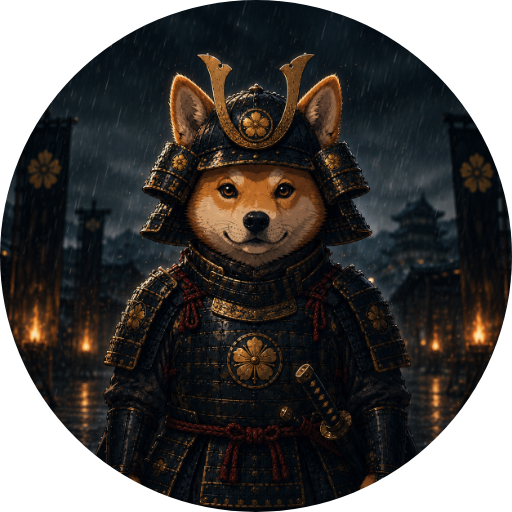
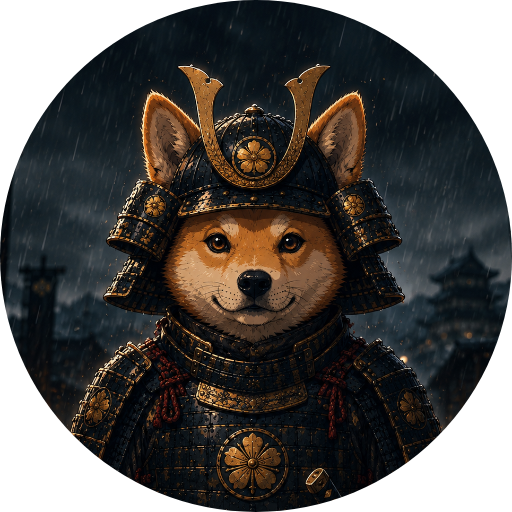
refactor: Implementación de react-hot-toast para monstrar mensajes toast

diff --git a/app/(dashboard)/configuracion/settings-view.tsx b/app/(dashboard)/configuracion/settings-view.tsx
@@ -38,6 +38,7 @@ import {
   type LucideIcon,
 } from "lucide-react";
 import { AnimatePresence, motion, useReducedMotion } from "motion/react";
+import { toast } from "react-hot-toast";
 import {
   type ChangeEvent,
   type ComponentType,
@@ -181,12 +182,6 @@ const initialProfileActionState: DashboardProfileActionState = {
 const profilePhotoMaxSize = 5 * 1024 * 1024;
 const profilePhotoAcceptedTypes = new Set(["image/png", "image/jpeg"]);
 const profilePhotoOutputSize = 512;
-
-type ProfilePhotoToastState = {
-  id: string;
-  message: string;
-  variant: "success" | "error";
-};
 
 function loadImage(src: string) {
   return new Promise<HTMLImageElement>((resolve, reject) => {
@@ -969,9 +964,7 @@ function ConfiguracionProfilePanel({
   const firstNameIconRef = useRef<AnimatedIconHandle>(null);
   const lastNameIconRef = useRef<AnimatedIconHandle>(null);
   const shouldReduceMotion = useReducedMotion();
-  const [hiddenSavedMessageId, setHiddenSavedMessageId] = useState<
-    string | null
-  >(null);
+  const hiddenSavedMessageIdRef = useRef<string | null>(null);
   const [firstNameValue, setFirstNameValue] = useState(user.firstName);
   const [lastNameValue, setLastNameValue] = useState(user.lastName);
   const [profileImagePath, setProfileImagePath] = useState(
@@ -985,8 +978,6 @@ function ConfiguracionProfilePanel({
   const [isPhotoDeleting, setIsPhotoDeleting] = useState(false);
   const [isProfilePhotoDragActive, setIsProfilePhotoDragActive] =
     useState(false);
-  const [profilePhotoToast, setProfilePhotoToast] =
-    useState<ProfilePhotoToastState | null>(null);
   const firstNameError = state.errors?.firstName?.[0];
   const lastNameError = state.errors?.lastName?.[0];
   const savedFirstName =
@@ -1010,22 +1001,14 @@ function ConfiguracionProfilePanel({
     if (
       !savedMessage ||
       !savedMessageId ||
-      savedMessageId === hiddenSavedMessageId
+      savedMessageId === hiddenSavedMessageIdRef.current
     ) {
       return;
     }
 
-    const timeout = window.setTimeout(() => {
-      setProfilePhotoToast({
-        id: savedMessageId,
-        message: savedMessage,
-        variant: "success",
-      });
-      setHiddenSavedMessageId(savedMessageId);
-    }, 0);
-
-    return () => window.clearTimeout(timeout);
-  }, [hiddenSavedMessageId, savedMessage, savedMessageId]);
+    toast.success(savedMessage);
+    hiddenSavedMessageIdRef.current = savedMessageId;
+  }, [savedMessage, savedMessageId]);
 
   useEffect(() => {
     if (!selectedImageSrc) {
@@ -1035,30 +1018,19 @@ function ConfiguracionProfilePanel({
     return () => URL.revokeObjectURL(selectedImageSrc);
   }, [selectedImageSrc]);
 
-  useEffect(() => {
-    if (!profilePhotoToast) {
-      return;
-    }
-
-    const timeout = window.setTimeout(() => {
-      setProfilePhotoToast((current) =>
-        current?.id === profilePhotoToast.id ? null : current,
-      );
-    }, 3000);
-
-    return () => window.clearTimeout(timeout);
-  }, [profilePhotoToast]);
-
   const showProfilePhotoToast = (
     messageKey: string,
     defaultValue: string,
-    variant: ProfilePhotoToastState["variant"],
+    variant: "success" | "error",
   ) => {
-    setProfilePhotoToast({
-      id: crypto.randomUUID(),
-      message: t(messageKey, { defaultValue }),
-      variant,
-    });
+    const message = t(messageKey, { defaultValue });
+
+    if (variant === "success") {
+      toast.success(message);
+      return;
+    }
+
+    toast.error(message);
   };
 
   const openProfilePhotoSelector = () => {
@@ -1742,44 +1714,6 @@ function ConfiguracionProfilePanel({
                   </button>
                 </div>
               </motion.div>
-            </motion.div>
-          ) : null}
-        </AnimatePresence>
-
-        <AnimatePresence>
-          {profilePhotoToast ? (
-            <motion.div
-              key={profilePhotoToast.id}
-              role="status"
-              aria-live="polite"
-              className="pointer-events-none fixed inset-x-0 bottom-5 z-[60] flex justify-center px-4 sm:bottom-6"
-              initial={
-                shouldReduceMotion
-                  ? { opacity: 1, y: 0 }
-                  : { opacity: 0, y: 12 }
-              }
-              animate={{ opacity: 1, y: 0 }}
-              exit={
-                shouldReduceMotion
-                  ? { opacity: 0, y: 0 }
-                  : { opacity: 0, y: 12 }
-              }
-              transition={
-                shouldReduceMotion
-                  ? { duration: 0 }
-                  : { duration: 0.22, ease: "easeOut" }
-              }
-            >
-              <span
-                className={cn(
-                  "w-full max-w-[420px] rounded-xl border px-4 py-3 text-center text-sm font-semibold shadow-[0_18px_40px_rgb(13_13_18/0.16)]",
-                  profilePhotoToast.variant === "success"
-                    ? "border-chart-1/35 bg-chart-1/10 text-chart-1"
-                    : "border-destructive/35 bg-destructive/10 text-destructive",
-                )}
-              >
-                {profilePhotoToast.message}
-              </span>
             </motion.div>
           ) : null}
         </AnimatePresence>

diff --git a/components/ui/app-toaster.tsx b/components/ui/app-toaster.tsx
@@ -1,0 +1,67 @@
+"use client";
+
+import type { CSSProperties } from "react";
+import { Toaster } from "react-hot-toast";
+
+const sharedToastStyle: CSSProperties = {
+  width: "fit-content",
+  maxWidth: "min(420px, calc(100vw - 32px))",
+  borderRadius: "0.75rem",
+  border: "1px solid var(--outline-variant)",
+  background: "var(--popover)",
+  color: "var(--popover-foreground)",
+  boxShadow: "0 18px 40px rgb(13 13 18 / 0.16)",
+  fontFamily: "var(--font-inter), Arial, Helvetica, sans-serif",
+  fontSize: "0.875rem",
+  fontWeight: 700,
+  lineHeight: 1.4,
+  padding: "0.75rem 1rem",
+  textAlign: "center",
+  wordBreak: "break-word",
+};
+
+export function AppToaster() {
+  return (
+    <Toaster
+      position="bottom-center"
+      gutter={8}
+      containerStyle={{
+        bottom: "calc(env(safe-area-inset-bottom, 0px) + 1rem)",
+        left: "1rem",
+        right: "1rem",
+      }}
+      toastOptions={{
+        duration: 3000,
+        style: sharedToastStyle,
+        success: {
+          iconTheme: {
+            primary: "var(--chart-1)",
+            secondary: "var(--background)",
+          },
+          style: {
+            ...sharedToastStyle,
+            borderColor:
+              "color-mix(in srgb, var(--chart-1) 35%, var(--outline-variant))",
+            background:
+              "color-mix(in srgb, var(--chart-1) 10%, var(--popover))",
+            color: "var(--chart-1)",
+          },
+        },
+        error: {
+          iconTheme: {
+            primary: "var(--destructive)",
+            secondary: "var(--background)",
+          },
+          style: {
+            ...sharedToastStyle,
+            borderColor:
+              "color-mix(in srgb, var(--destructive) 35%, var(--outline-variant))",
+            background:
+              "color-mix(in srgb, var(--destructive) 10%, var(--popover))",
+            color: "var(--destructive)",
+          },
+        },
+      }}
+    />
+  );
+}

diff --git a/app/layout.tsx b/app/layout.tsx
@@ -5,6 +5,7 @@ import "./globals.css";
 import { cn } from "@/lib/utils";
 import { I18nProvider } from "./i18n-provider";
 import { getDashboardThemeInitScript } from "@/lib/dashboard/theme-preference";
+import { AppToaster } from "@/components/ui/app-toaster";
 
 const geist = Geist({subsets:['latin'],variable:'--font-sans'});
 
@@ -41,6 +42,7 @@ export default function RootLayout({
     >
       <body className="min-h-full flex flex-col">
         <I18nProvider>{children}</I18nProvider>
+        <AppToaster />
         <Script
           id="dashboard-theme-init"
           strategy="beforeInteractive"